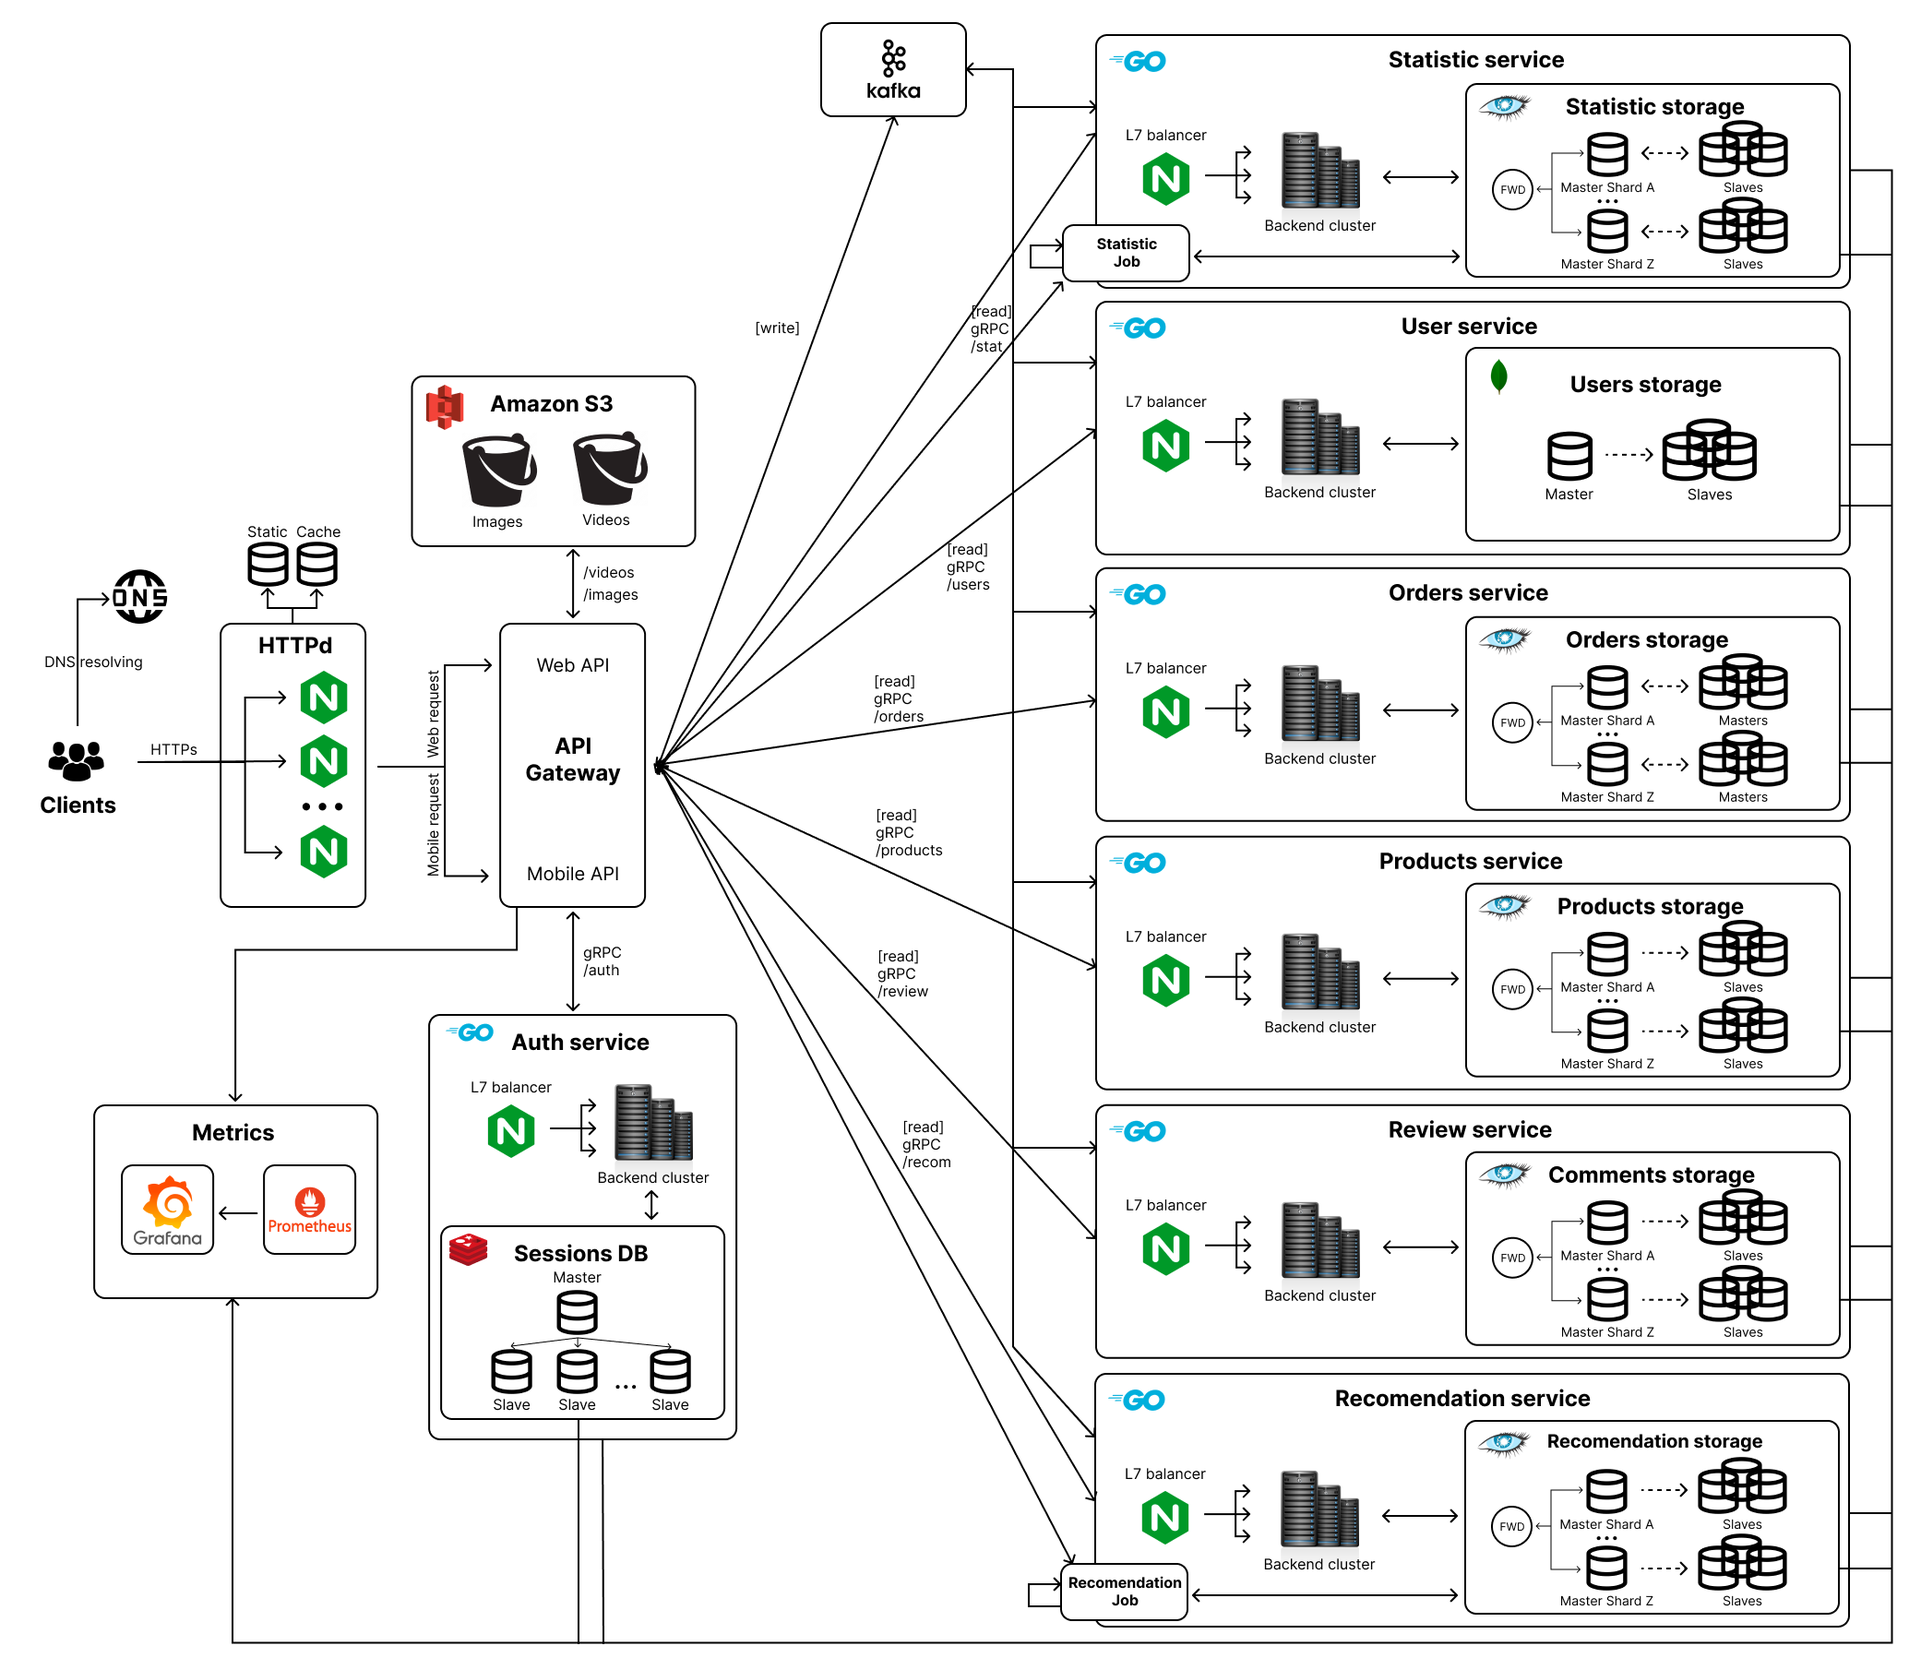
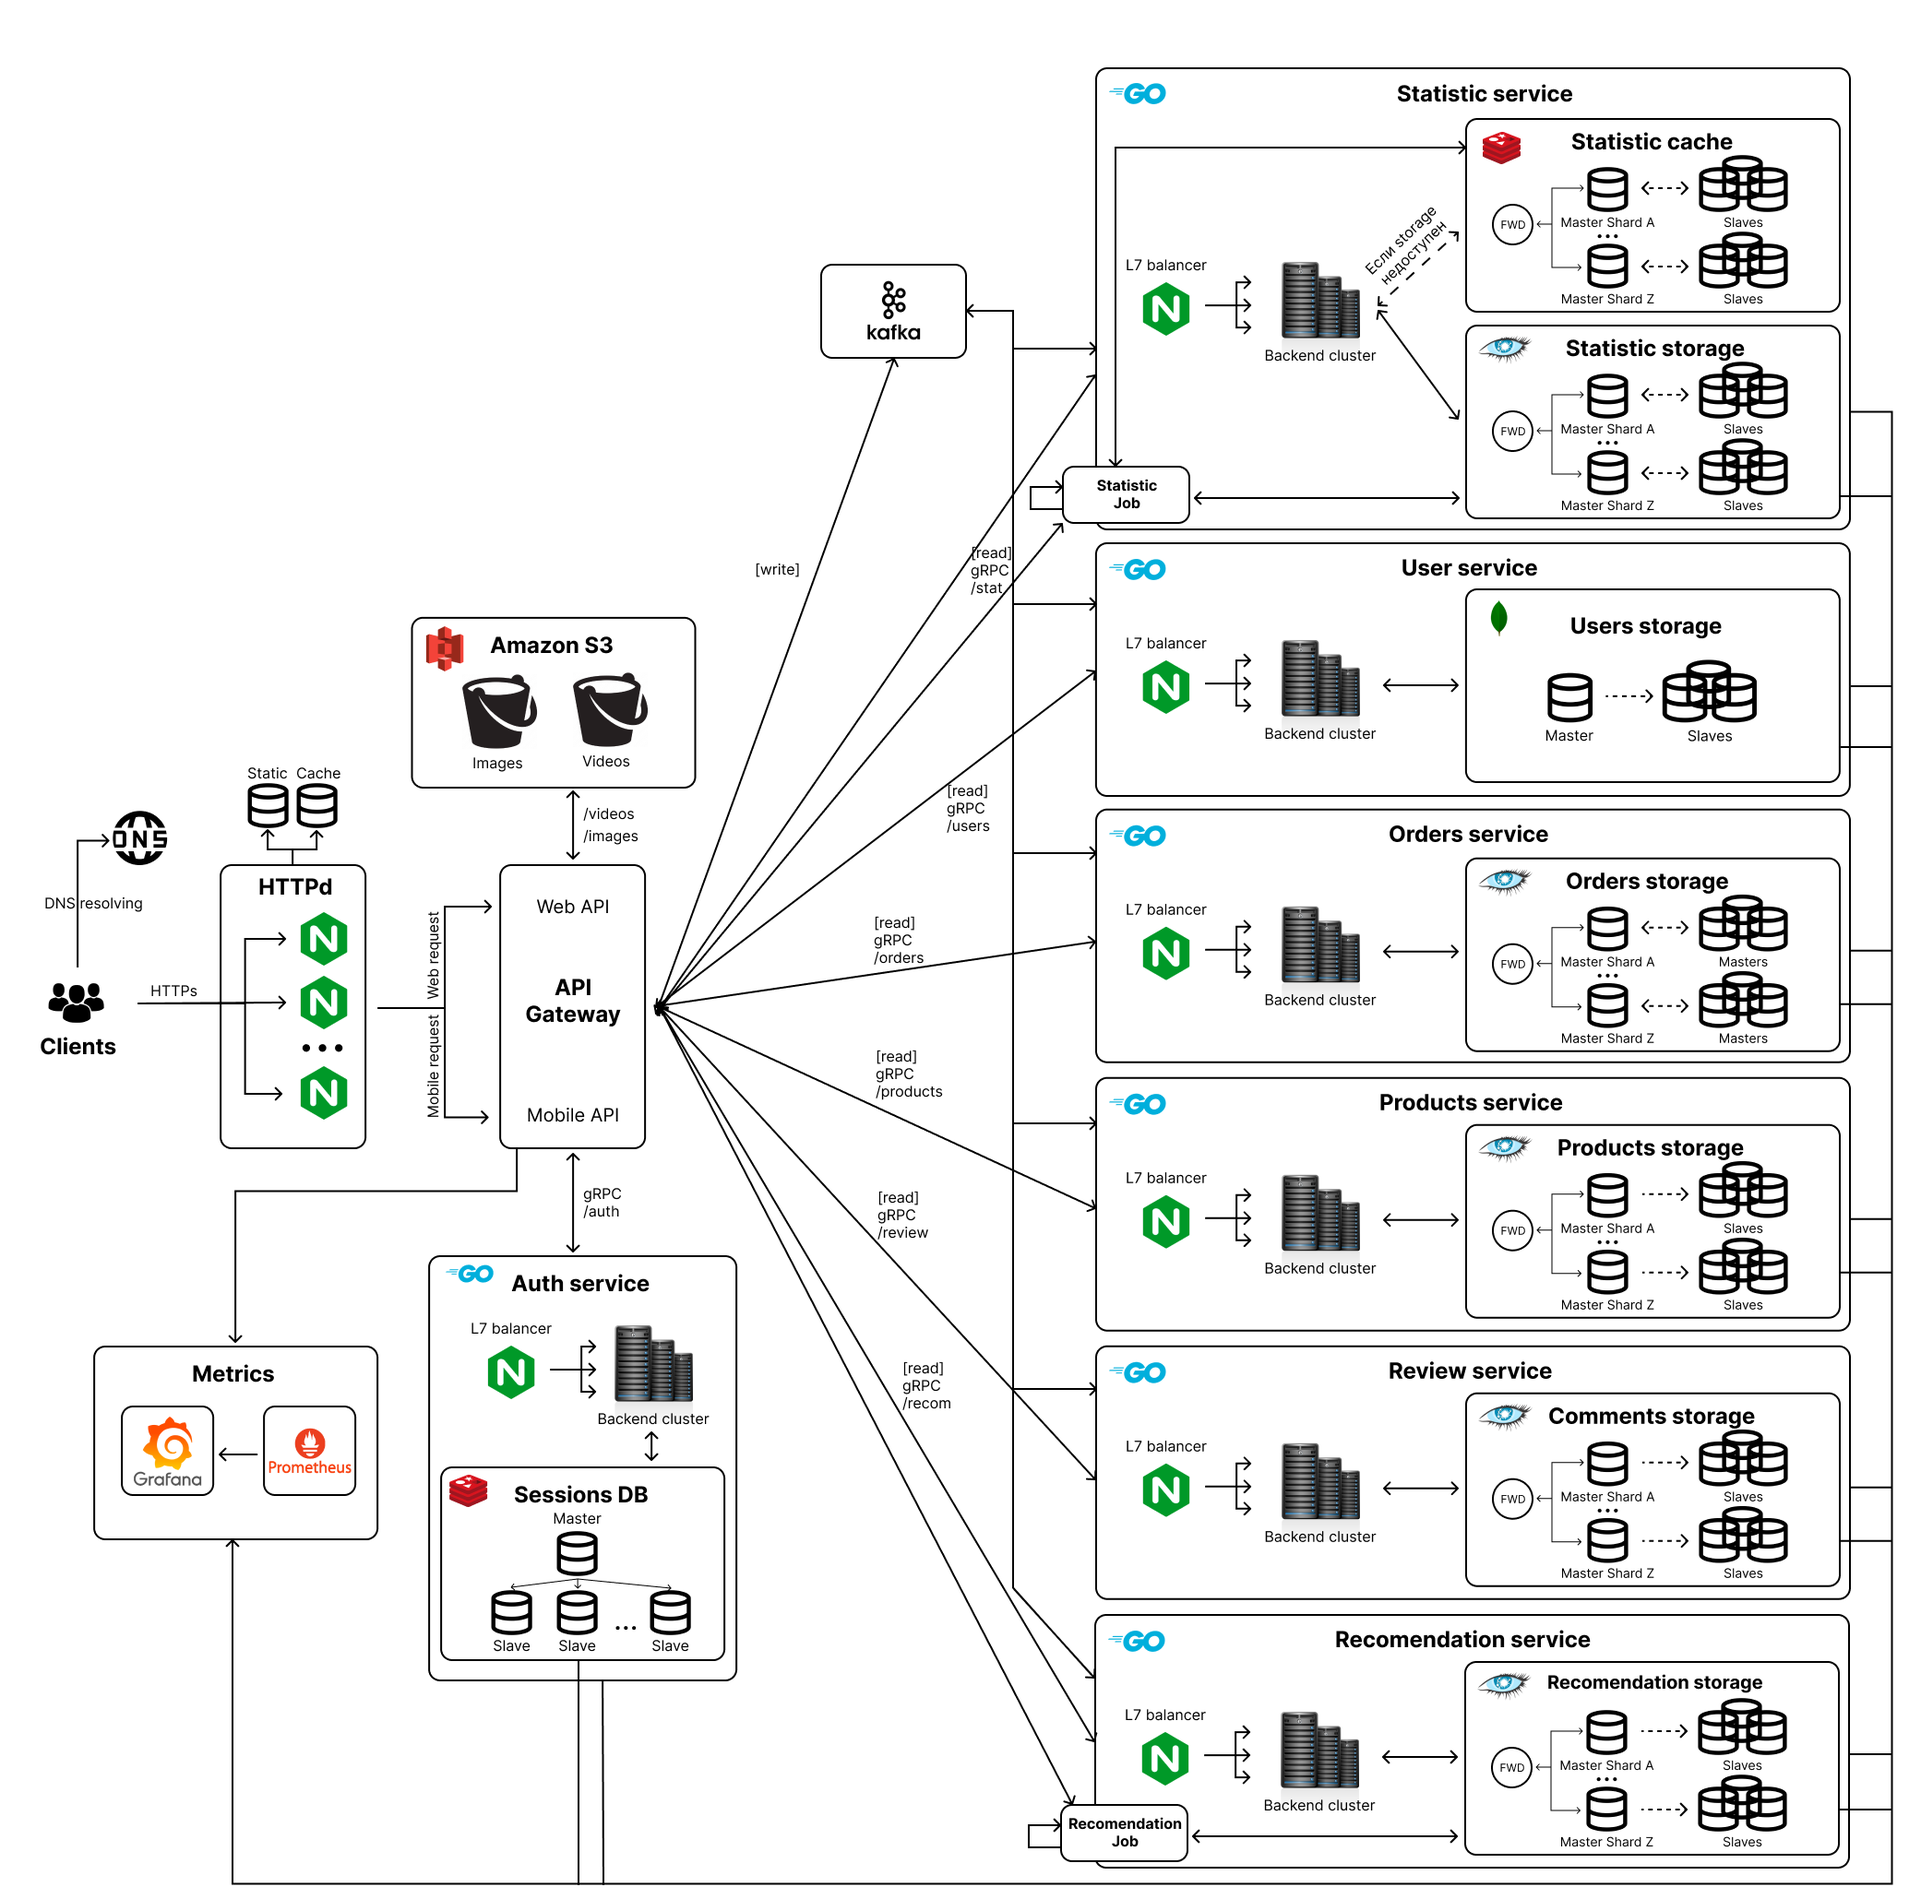
added a scenario for actions in case of failure of the statistics service database

diff --git a/README.md b/README.md
@@ -543,7 +543,7 @@ Redis имеет следющие преимущества, относитель
  - API индивидуально для каждого вида клиента (веб или мобильный)
  - Единая компонент для микросервисного взаимодействия
 
-Всего 6 микросервисов:
+Всего 7 микросервисов:
 
  - Пользователи
  - Отзывы
@@ -613,6 +613,10 @@ Redis имеет следющие преимущества, относитель
 
 3. **Настроить систему на использование нового ведущего узла.** Клиенты должны начать отправлять запросы на запись новому ведущему узлу. Если старый ведущий узел возобновляет работу, может оказаться,
 что он продолжает считать себя ведущим и не осознает решение остальных реплик считать его недееспособным. Система должна обеспечить превращение старого ведущего узла в ведомый и признание им нового ведущего.
+
+### Отказ БД у сервиса статистики
+
+В случае отказа основной базы данных Cassandra, эффективным механизмом резервного копирования данных будет введение кэша в сервисе статистики. Обновления в хранилище статистики (Statistic Storage) происходят с интервалом 5-10 минут, в то время как в кеше (Statistic Cache) данные обновляются с гораздо меньшей частотой, например, раз в 8 часов (при этом они не рассчитываются заново, а просто копируются из Statistic Storage). Таким образом в случае недоступности Statistic Storage, все запросы на получение статистики будут автоматически направляться в Statistic Cache. Благодаря чему, пользователи будут продолжать получать статистику товаров, даже если она не является абсолютно актуальной, обеспечивая плавный пользовательский опыт в случае сбоя основного источника данных.
 
 ## Расчет ресурсов
 
